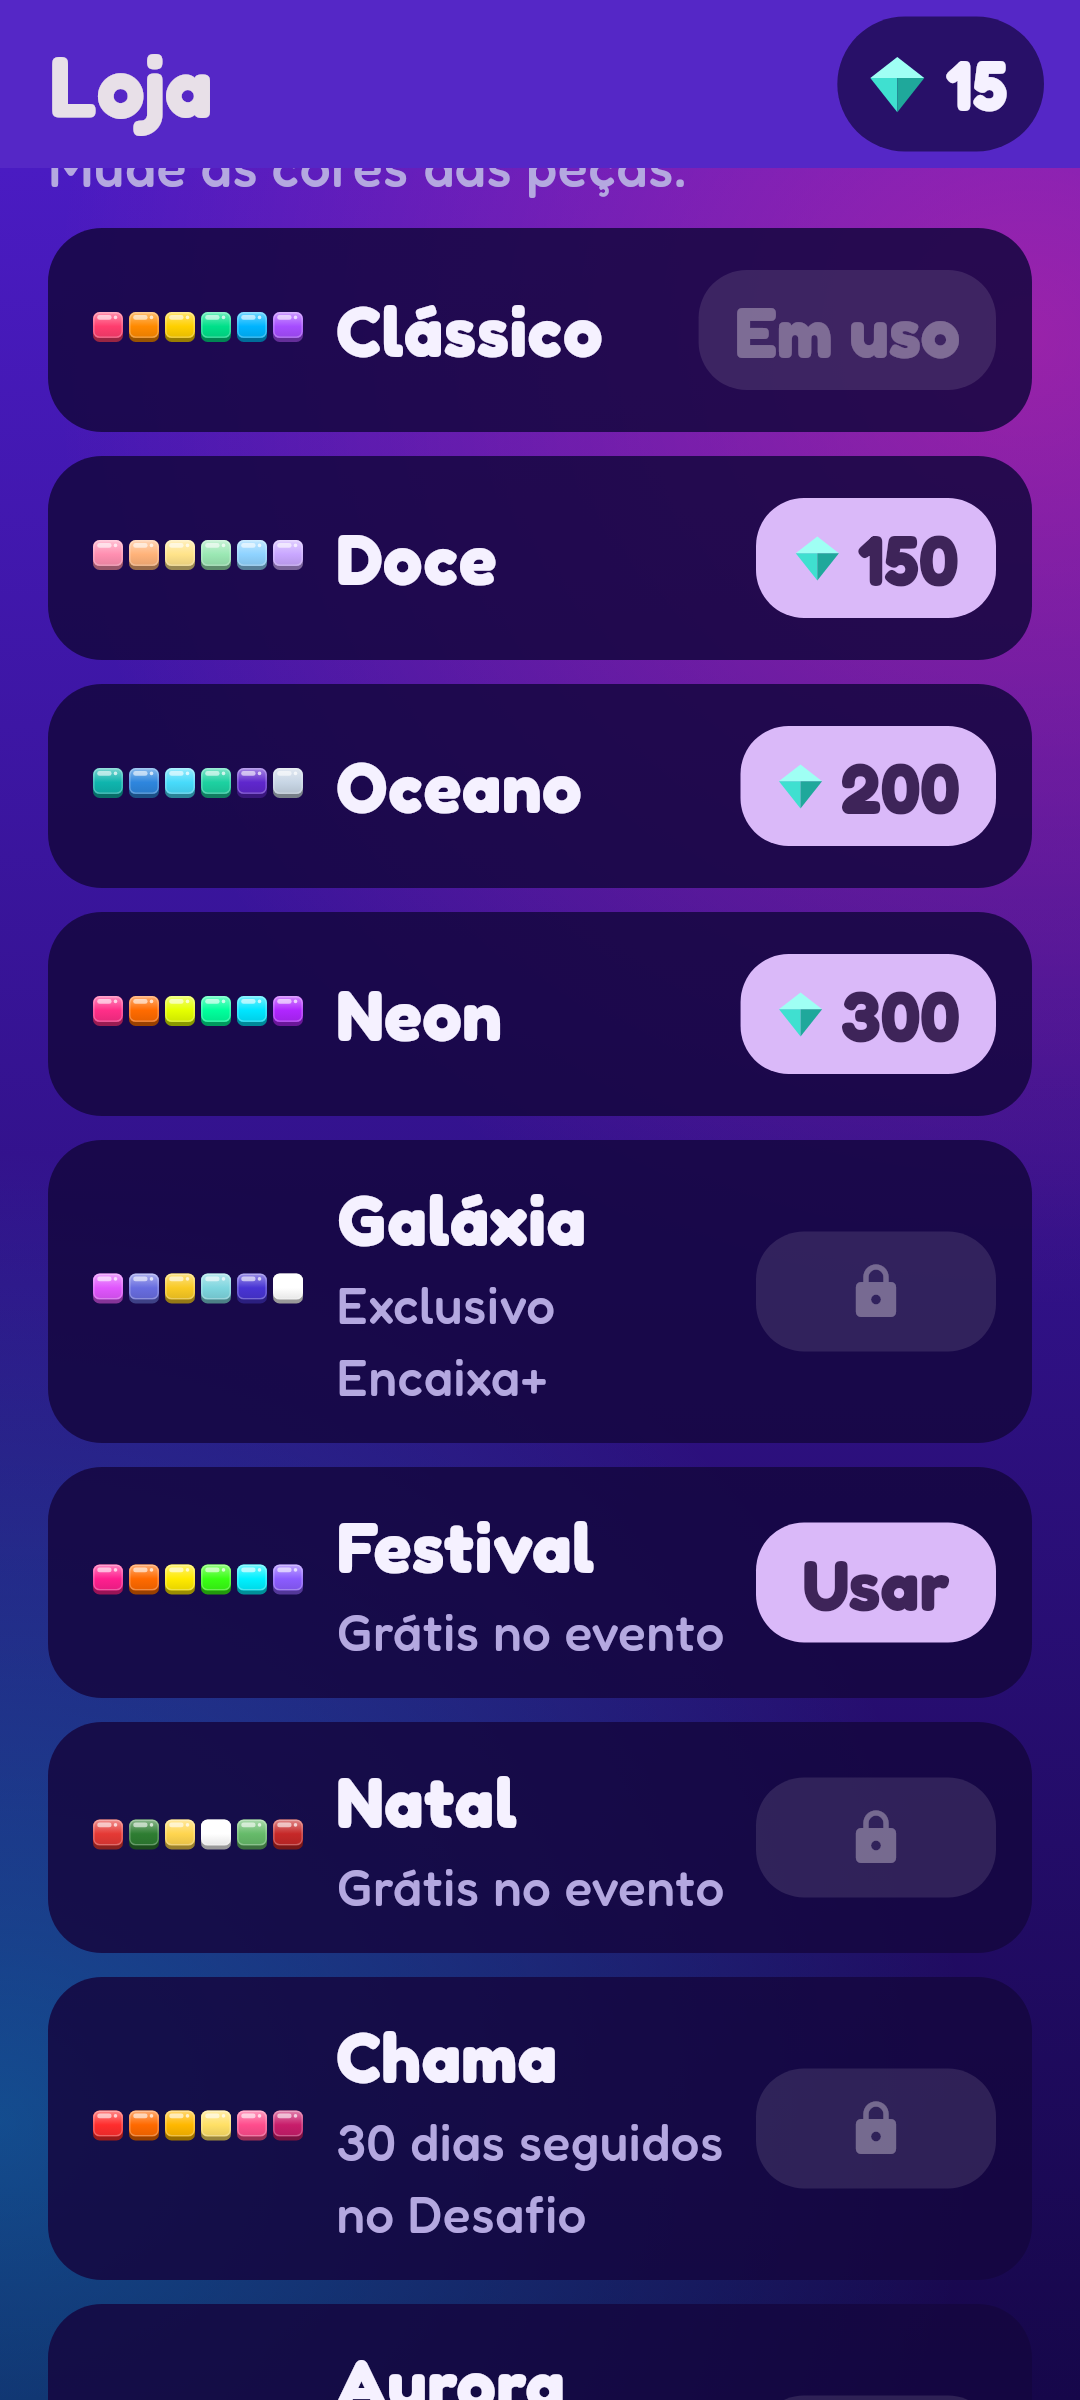
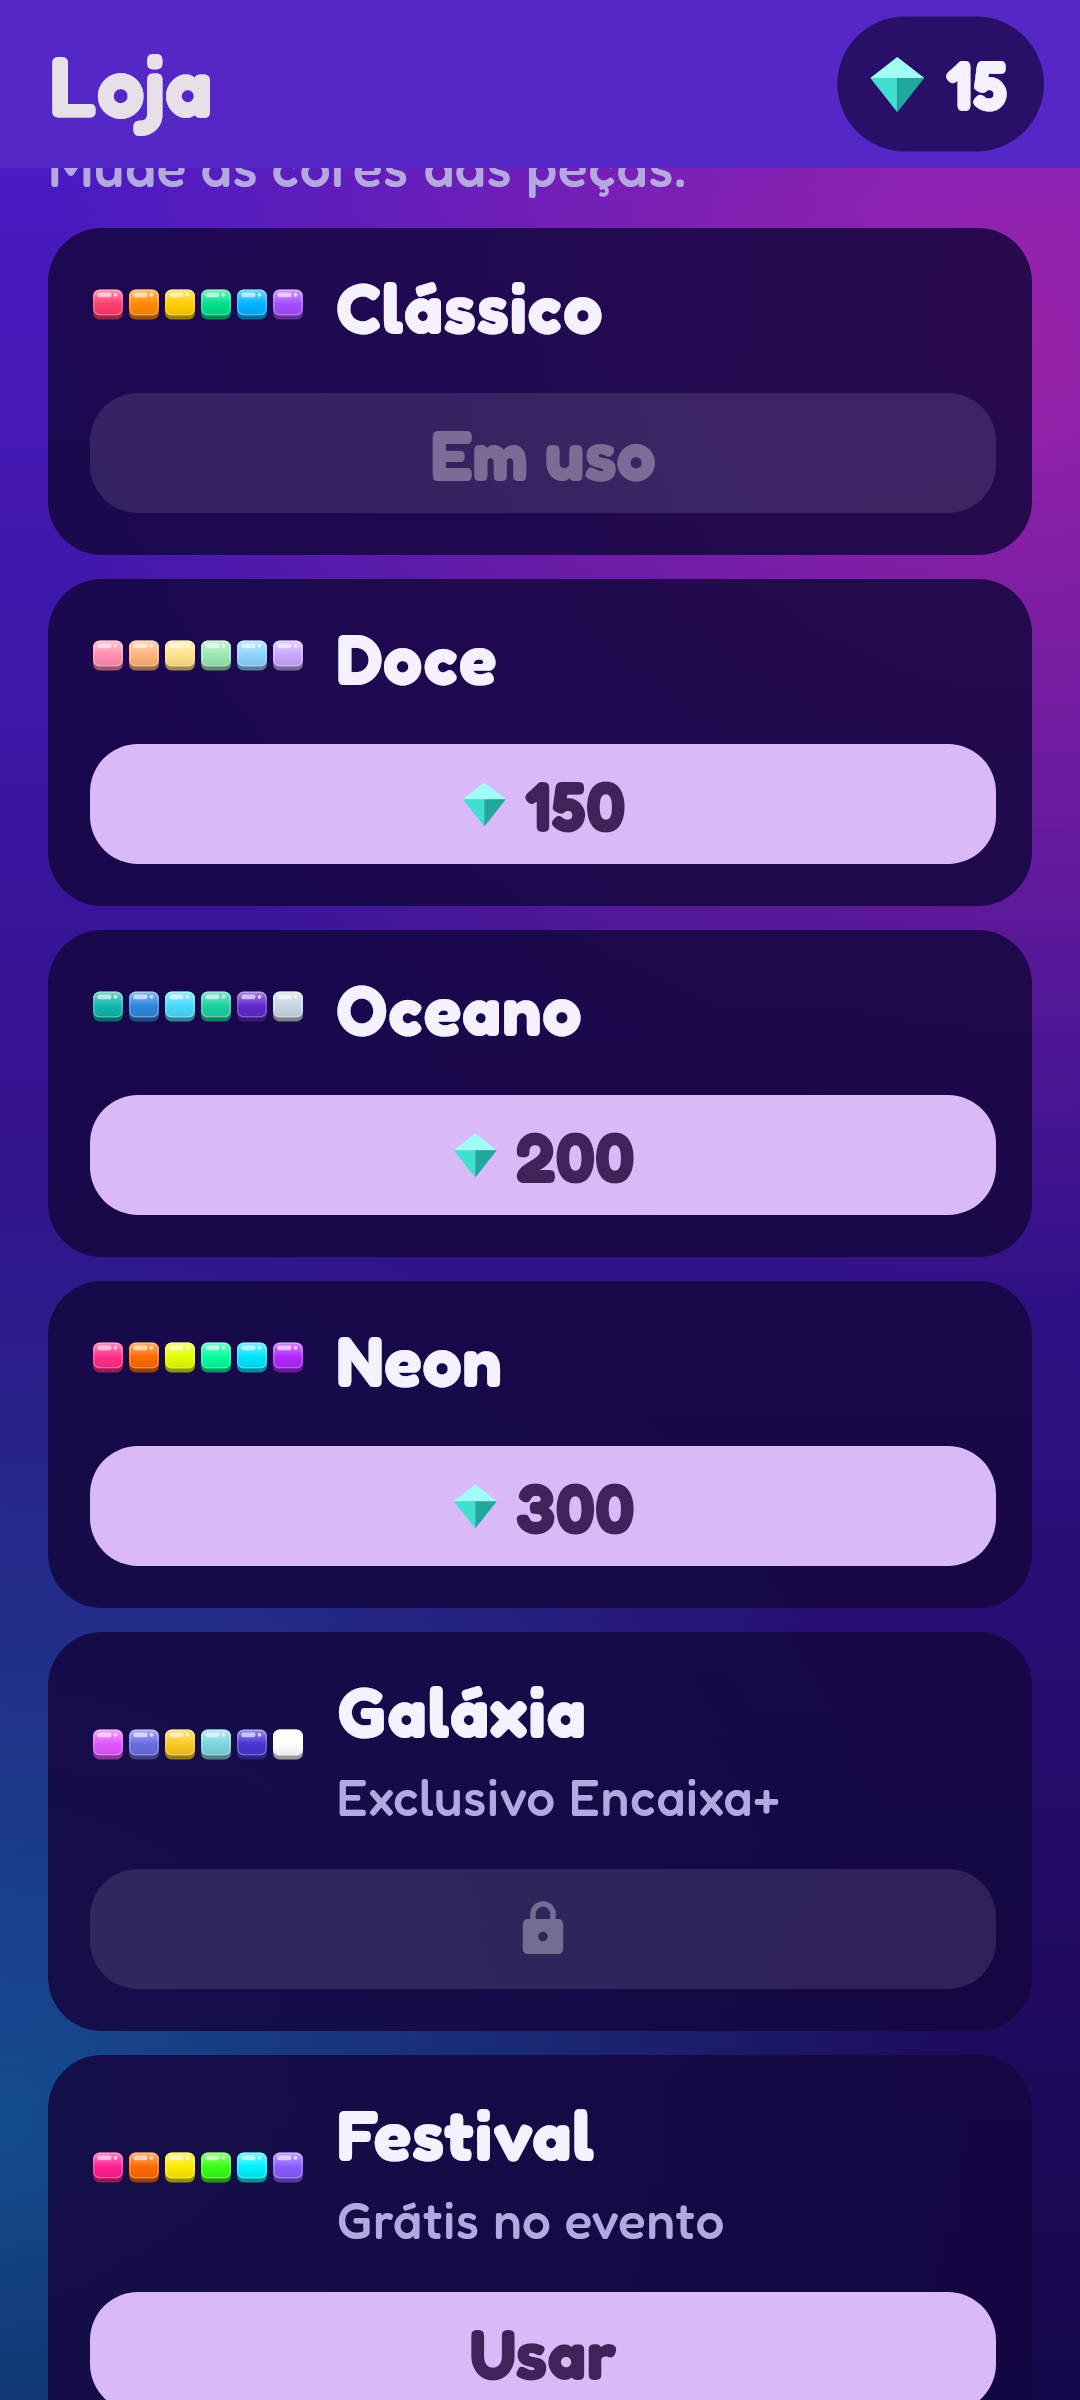
Telas legíveis em celular com tela ampliada e fonte grande (v29)
- Loja: a linha do tema empilha o botão embaixo quando falta espaço (o nome quebrava letra por letra)
- Início, Arena e Salvar progresso: topo e cartões encolhem em vez de estourar em 280 dp; contador de gemas compacto em tela estreita
- Teste varre 12 telas em 280x600 com fonte 1,3x e falha se algo estourar

Claude-Session: https://claude.ai/code/session_0113qfSKSdakLn1Fz3YtvNms

diff --git a/app/lib/telas/loja_tela.dart b/app/lib/telas/loja_tela.dart
@@ -285,51 +285,73 @@ class _ItemTema extends StatelessWidget {
   Widget build(BuildContext context) {
     final bloqueado =
         !temTema && (tema.assinante || tema.evento != null || tema.marcoDias != null || tema.passe || tema.bau);
+    final amostra = SizedBox(width: 72, height: 26, child: CustomPaint(painter: _Amostra(tema)));
+    final textos = Column(
+      crossAxisAlignment: CrossAxisAlignment.start,
+      children: [
+        Text(t(tema.nome), style: const TextStyle(fontSize: 18, fontWeight: FontWeight.w700)),
+        if (tema.assinante || tema.evento != null || tema.marcoDias != null || tema.passe || (tema.bau && !temTema))
+          Text(
+            tema.bau
+                ? t('Só nos baús')
+                : tema.assinante
+                ? t('Exclusivo Encaixa+')
+                : (tema.marcoDias != null
+                      ? t('{0} dias seguidos no Desafio', [tema.marcoDias])
+                      : (tema.passe ? t('Nível 20 do Passe de temporada') : t('Grátis no evento'))),
+            style: const TextStyle(color: Cores.textoFraco, fontSize: 13),
+          ),
+      ],
+    );
+    final botao = FilledButton(
+      style: FilledButton.styleFrom(
+        minimumSize: const Size(80, 40),
+        padding: const EdgeInsets.symmetric(horizontal: 12),
+      ),
+      onPressed: emUso || bloqueado ? null : aoTocar,
+      child: emUso
+          ? Text(t('Em uso'))
+          : temTema
+          ? Text(t('Usar'))
+          : bloqueado
+          ? const Icon(Icons.lock_rounded, size: 20)
+          : Row(mainAxisSize: MainAxisSize.min, children: [const IconeGema(tamanho: 16), Text(' ${tema.preco}')]),
+    );
     return Container(
       padding: const EdgeInsets.fromLTRB(14, 10, 12, 10),
       decoration: BoxDecoration(color: Cores.painel.withValues(alpha: 0.85), borderRadius: BorderRadius.circular(18)),
-      child: Row(
-        children: [
-          SizedBox(width: 72, height: 26, child: CustomPaint(painter: _Amostra(tema))),
-          const SizedBox(width: 10),
-          Expanded(
-            child: Column(
-              crossAxisAlignment: CrossAxisAlignment.start,
+      child: LayoutBuilder(
+        builder: (context, caixa) {
+          // Sobra pouco para o nome (tela ampliada, fonte grande ou celular estreito)? Botão vai para baixo, em vez
+          // de espremer o nome até quebrar no meio da palavra.
+          final escala = MediaQuery.textScalerOf(context).scale(18) / 18;
+          final sobra = caixa.maxWidth - 72 - 10 - 80 - 8;
+          if (sobra >= 130 * escala) {
+            return Row(
               children: [
-                Text(t(tema.nome), style: const TextStyle(fontSize: 18, fontWeight: FontWeight.w700)),
-                if (tema.assinante ||
-                    tema.evento != null ||
-                    tema.marcoDias != null ||
-                    tema.passe ||
-                    (tema.bau && !temTema))
-                  Text(
-                    tema.bau
-                        ? t('Só nos baús')
-                        : tema.assinante
-                        ? t('Exclusivo Encaixa+')
-                        : (tema.marcoDias != null
-                              ? t('{0} dias seguidos no Desafio', [tema.marcoDias])
-                              : (tema.passe ? t('Nível 20 do Passe de temporada') : t('Grátis no evento'))),
-                    style: const TextStyle(color: Cores.textoFraco, fontSize: 13),
-                  ),
+                amostra,
+                const SizedBox(width: 10),
+                Expanded(child: textos),
+                const SizedBox(width: 8),
+                botao,
               ],
-            ),
-          ),
-          FilledButton(
-            style: FilledButton.styleFrom(
-              minimumSize: const Size(80, 40),
-              padding: const EdgeInsets.symmetric(horizontal: 12),
-            ),
-            onPressed: emUso || bloqueado ? null : aoTocar,
-            child: emUso
-                ? Text(t('Em uso'))
-                : temTema
-                ? Text(t('Usar'))
-                : bloqueado
-                ? const Icon(Icons.lock_rounded, size: 20)
-                : Row(mainAxisSize: MainAxisSize.min, children: [const IconeGema(tamanho: 16), Text(' ${tema.preco}')]),
-          ),
-        ],
+            );
+          }
+          return Column(
+            crossAxisAlignment: CrossAxisAlignment.stretch,
+            children: [
+              Row(
+                children: [
+                  amostra,
+                  const SizedBox(width: 10),
+                  Expanded(child: textos),
+                ],
+              ),
+              const SizedBox(height: 8),
+              botao,
+            ],
+          );
+        },
       ),
     );
   }

diff --git a/app/lib/telas/inicio_tela.dart b/app/lib/telas/inicio_tela.dart
@@ -130,23 +130,37 @@ class _InicioTelaState extends State<InicioTela> {
                                 ),
                               ),
                             ],
-                            const Spacer(),
-                            IconButton(
-                              tooltip: t('Como jogar'),
-                              visualDensity: VisualDensity.compact,
-                              onPressed: () => _abrir(AjudaTela(servicos: servicos)),
-                              icon: const Icon(Icons.help_rounded),
-                            ),
-                            _BotaoPresente(disponivel: p.presenteDeHoje(dia) > 0, aoTocar: () => _abrirPresente(dia)),
-                            IconButton(
-                              tooltip: p.somLigado ? t('Desligar som') : t('Ligar som'),
-                              visualDensity: VisualDensity.compact,
-                              onPressed: p.alternarSom,
-                              icon: Icon(p.somLigado ? Icons.volume_up_rounded : Icons.volume_off_rounded),
-                            ),
-                            GemasChip(
-                              gemas: p.gemas,
-                              aoTocar: () => _abrir(LojaTela(servicos: servicos)),
+                            // Os botões da direita encolhem juntos se a tela for estreita (tela ampliada, fonte grande).
+                            Expanded(
+                              child: FittedBox(
+                                fit: BoxFit.scaleDown,
+                                alignment: Alignment.centerRight,
+                                child: Row(
+                                  mainAxisSize: MainAxisSize.min,
+                                  children: [
+                                    IconButton(
+                                      tooltip: t('Como jogar'),
+                                      visualDensity: VisualDensity.compact,
+                                      onPressed: () => _abrir(AjudaTela(servicos: servicos)),
+                                      icon: const Icon(Icons.help_rounded),
+                                    ),
+                                    _BotaoPresente(
+                                      disponivel: p.presenteDeHoje(dia) > 0,
+                                      aoTocar: () => _abrirPresente(dia),
+                                    ),
+                                    IconButton(
+                                      tooltip: p.somLigado ? t('Desligar som') : t('Ligar som'),
+                                      visualDensity: VisualDensity.compact,
+                                      onPressed: p.alternarSom,
+                                      icon: Icon(p.somLigado ? Icons.volume_up_rounded : Icons.volume_off_rounded),
+                                    ),
+                                    GemasChip(
+                                      gemas: p.gemas,
+                                      aoTocar: () => _abrir(LojaTela(servicos: servicos)),
+                                    ),
+                                  ],
+                                ),
+                              ),
                             ),
                           ],
                         ),
@@ -880,9 +894,13 @@ class _BannerEvento extends StatelessWidget {
             child: Column(
               crossAxisAlignment: CrossAxisAlignment.start,
               children: [
-                Text(
-                  t('EVENTO · termina em {0}', [evento == null ? t('domingo') : tempoRestante(agora, evento.fim)]),
-                  style: const TextStyle(fontSize: 12, fontWeight: FontWeight.w700, letterSpacing: 0.5),
+                FittedBox(
+                  fit: BoxFit.scaleDown,
+                  alignment: Alignment.centerLeft,
+                  child: Text(
+                    t('EVENTO · termina em {0}', [evento == null ? t('domingo') : tempoRestante(agora, evento.fim)]),
+                    style: const TextStyle(fontSize: 12, fontWeight: FontWeight.w700, letterSpacing: 0.5),
+                  ),
                 ),
                 FittedBox(
                   fit: BoxFit.scaleDown,

diff --git a/app/test/telas_ampliadas_test.dart b/app/test/telas_ampliadas_test.dart
@@ -1,0 +1,51 @@
+import 'package:encaixa/telas/ajuda_tela.dart';
+import 'package:encaixa/telas/album_tela.dart';
+import 'package:encaixa/telas/arena_tela.dart';
+import 'package:encaixa/telas/baus_tela.dart';
+import 'package:encaixa/telas/conquistas_tela.dart';
+import 'package:encaixa/telas/estatisticas_tela.dart';
+import 'package:encaixa/telas/inicio_tela.dart';
+import 'package:encaixa/telas/loja_tela.dart';
+import 'package:encaixa/telas/mapa_tela.dart';
+import 'package:encaixa/telas/passe_tela.dart';
+import 'package:encaixa/telas/progresso_tela.dart';
+import 'package:encaixa/telas/roda_tela.dart';
+import 'package:flutter_test/flutter_test.dart';
+import 'package:material_ui/material_ui.dart';
+
+import 'suporte/capturas.dart';
+
+/// Celular com "tamanho da tela" ampliado e fonte grande: só uns 280 dp de largura útil. As telas não podem estourar
+/// nem quebrar palavra no meio. Pasta das imagens: `--dart-define=AMPLIADAS=<pasta>` (padrão: `docs/telas/ampliadas`).
+const _pasta = String.fromEnvironment('AMPLIADAS', defaultValue: '../docs/telas/ampliadas');
+
+void main() {
+  setUpAll(carregarFontes);
+
+  final telas = <String, Widget Function(dynamic s)>{
+    'inicio': (s) => InicioTela(servicos: s),
+    'passe': (s) => PasseTela(servicos: s),
+    'conquistas': (s) => ConquistasTela(servicos: s),
+    'baus': (s) => BausTela(servicos: s),
+    'estatisticas': (s) => EstatisticasTela(servicos: s),
+    'mapa': (s) => MapaTela(servicos: s),
+    'arena': (s) => ArenaTela(servicos: s),
+    'album': (s) => AlbumTela(servicos: s),
+    'ajuda': (s) => AjudaTela(servicos: s),
+    'progresso': (s) => ProgressoTela(servicos: s),
+    'roda': (s) => RodaTela(servicos: s),
+    'loja': (s) => LojaTela(servicos: s),
+  };
+
+  for (final MapEntry(key: nome, value: tela) in telas.entries) {
+    testWidgets('tela ampliada: $nome', (tester) async {
+      telaDeCelular(tester, tamanho: const Size(280, 600), fonte: 1.3);
+      final s = await servicosDeTeste(valores: const {'gemas': 120, 'faseLiberada': 9, 'partidas': 8});
+      await tester.pumpWidget(appDeTeste(s, tela: tela(s)));
+      await tester.pump(const Duration(seconds: 1));
+      await tester.pump(const Duration(seconds: 1));
+      await capturar(tester, nome, pasta: _pasta);
+      expect(tester.takeException(), isNull, reason: nome);
+    });
+  }
+}

diff --git a/app/lib/widgets/peca_widget.dart b/app/lib/widgets/peca_widget.dart
@@ -55,29 +55,36 @@ class GemasChip extends StatelessWidget {
   final VoidCallback? aoTocar;
 
   @override
-  Widget build(BuildContext context) => Material(
-    color: Cores.painel.withValues(alpha: 0.7),
-    shape: const StadiumBorder(),
-    child: InkWell(
-      customBorder: const StadiumBorder(),
-      onTap: aoTocar,
-      child: Padding(
-        padding: const EdgeInsets.fromLTRB(10, 6, 12, 6),
-        child: Row(
-          mainAxisSize: MainAxisSize.min,
-          children: [
-            const IconeGema(tamanho: 20),
-            const SizedBox(width: 6),
-            Text('$gemas', style: const TextStyle(fontSize: 18, fontWeight: FontWeight.w700)),
-            if (aoTocar != null) ...[
-              const SizedBox(width: 4),
-              const Icon(Icons.add_circle, size: 18, color: Cores.gema),
+  Widget build(BuildContext context) {
+    // Tela ampliada ou celular estreito: o contador encolhe (sem o "+") para não empurrar o resto do topo.
+    final apertado = MediaQuery.sizeOf(context).width < 330;
+    return Material(
+      color: Cores.painel.withValues(alpha: 0.7),
+      shape: const StadiumBorder(),
+      child: InkWell(
+        customBorder: const StadiumBorder(),
+        onTap: aoTocar,
+        child: Padding(
+          padding: EdgeInsets.fromLTRB(apertado ? 8 : 10, 6, apertado ? 8 : 12, 6),
+          child: Row(
+            mainAxisSize: MainAxisSize.min,
+            children: [
+              IconeGema(tamanho: apertado ? 18 : 20),
+              SizedBox(width: apertado ? 4 : 6),
+              Text(
+                '$gemas',
+                style: TextStyle(fontSize: apertado ? 16 : 18, fontWeight: FontWeight.w700),
+              ),
+              if (aoTocar != null && !apertado) ...[
+                const SizedBox(width: 4),
+                const Icon(Icons.add_circle, size: 18, color: Cores.gema),
+              ],
             ],
-          ],
+          ),
         ),
       ),
-    ),
-  );
+    );
+  }
 }
 
 /// Gema desenhada em código (losango facetado).

diff --git a/app/lib/telas/progresso_tela.dart b/app/lib/telas/progresso_tela.dart
@@ -155,9 +155,15 @@ class _ProgressoTelaState extends State<ProgressoTela> {
                       Row(
                         children: [
                           const Icon(Icons.map_rounded, color: Cores.brilhoCiano),
-                          Text(
-                            t('  Fase {0} de {1}', [p.faseLiberada.clamp(1, Fase.total), Fase.total]),
-                            style: const TextStyle(fontSize: 18, fontWeight: FontWeight.w700),
+                          Flexible(
+                            child: FittedBox(
+                              fit: BoxFit.scaleDown,
+                              alignment: Alignment.centerLeft,
+                              child: Text(
+                                t('  Fase {0} de {1}', [p.faseLiberada.clamp(1, Fase.total), Fase.total]),
+                                style: const TextStyle(fontSize: 18, fontWeight: FontWeight.w700),
+                              ),
+                            ),
                           ),
                           const Spacer(),
                           const Icon(Icons.star_rounded, color: Cores.ouro),

diff --git a/app/lib/telas/arena_tela.dart b/app/lib/telas/arena_tela.dart
@@ -44,9 +44,12 @@ class ArenaTela extends StatelessWidget {
                         onPressed: () => Navigator.of(context).maybePop(),
                         icon: const Icon(Icons.arrow_back_rounded),
                       ),
-                      TextoContornado(t('Arena'), tamanho: 26),
+                      Flexible(
+                        child: FittedBox(fit: BoxFit.scaleDown, child: TextoContornado(t('Arena'), tamanho: 26)),
+                      ),
                       IconButton(
                         tooltip: t('Como funciona a Arena'),
+                        visualDensity: VisualDensity.compact,
                         onPressed: () => mostrarDica(context, Dicas.arena),
                         icon: const Icon(Icons.info_outline_rounded),
                       ),

diff --git a/app/test/loja_estreita_test.dart b/app/test/loja_estreita_test.dart
@@ -13,6 +13,7 @@ void main() {
     ('64-loja-fonte-1-3', 1.3, const Size(360, 800)),
     ('65-loja-fonte-1-6', 1.6, const Size(360, 800)),
     ('66-loja-pequena', 1.3, const Size(320, 640)),
+    ('68-loja-tela-ampliada', 1.3, const Size(280, 600)), // 'Tamanho da tela' ampliado no Samsung
   ]) {
     testWidgets('loja legível ($nome)', (tester) async {
       telaDeCelular(tester, tamanho: tamanho, fonte: fonte);
